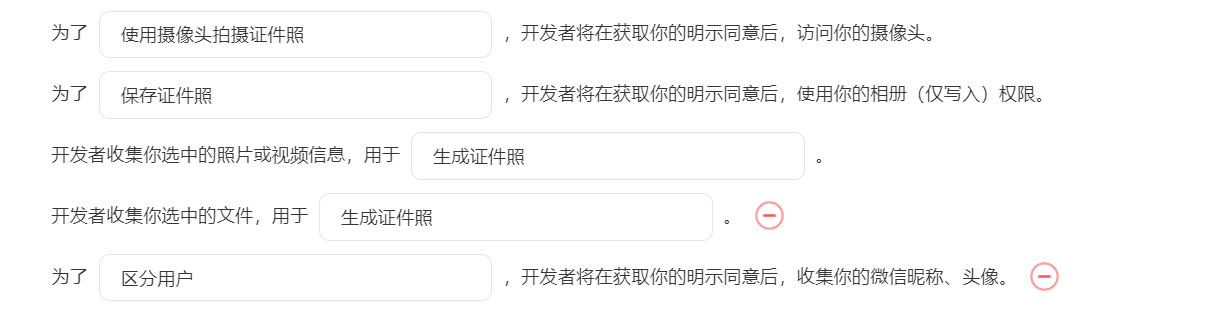
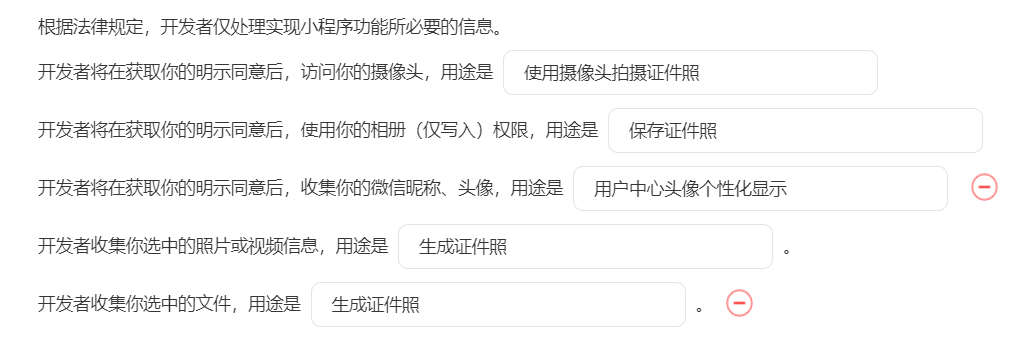
解决微信隐私更新导致小程序不过审问题

diff --git a/ymhZjz/pages/login/index.js b/ymhZjz/pages/login/index.js
@@ -38,6 +38,15 @@ Page({
             })
         }
     })
+  },
+
+  cancelLogin() {
+      const pages = getCurrentPages();
+      if (pages && pages.length > 1) {
+          wx.navigateBack({ delta: 1 });
+      } else {
+          wx.switchTab({ url: '/pages/index/index' });
+      }
   }
 
 

diff --git a/README.md b/README.md
@@ -1,8 +1,38 @@
-# 预览：
+# 📝反馈
+
+目前我正在进行程序大更新，新版本**不支持平滑升级**！
+
+---
+
+##### 对于二开者
+
+新版本决定牺牲一些性能和速度以提高便利性，但仍然**不提供接口文档**。  
+如果你希望保留性能和速度，请保留 **2025.05.03** 版本的前后端代码，包括管理员端。
+
+---
+
+##### 提交您的想法
+
+- 目前 HivisionIDPhotos 的功能、性能和 bug 已经无法满足需求，如果你懂 Python，希望你能利用业余时间参与 HivisionIDPhotos 魔改计划
+- 如果你有更好的想法、发现 bug、喜欢别的小程序页面、觉得别的小程序某个功能或逻辑很好等等……
+- 欢迎提交反馈，因为一个人的想法是有限的，但我希望产品能让大家都满意
+
+<h3 align="center">
+  反馈提交地址: <a href="https://fk.0po.cn">https://fk.0po.cn</a>
+</h3>
+
+
+
+<p align="center">
+<img src="./assets/fk.png" alt="反馈图标">
+</p>
+
+
+# 🔍预览：
 
 <p align="center"><img src="./assets/3.png"></p>
 
-# 项目介绍
+# 📝项目介绍
 
 # <p align="center">证件照伴侣</p>
 <p align="center">2025我们一起加油，心如所愿，梦想成真.</p>
@@ -21,6 +51,7 @@
 # ⭐最近更新
     版本更新教程：https://www.bilibili.com/video/BV1xNUvYTEjo
 
+- 2025.09.24: 解决微信隐私更新导致小程序不过审问题
 - 2024.END:   2024年最后一个版本，全新我的作品页面，增加图片编辑，修复所有的历史遗留包裹
 - 2024.12.17: 固定微信基础库版本：3.7.0，管理员登录失败增加更详细信息，探索中心改动，登录状态检查，适配新版后端等
 - 2024.12.06: 探索中心增加图片动漫风功能，修复定制列表没定制时没有弹出提示框的问题，删除200多个没用到的依赖文件
